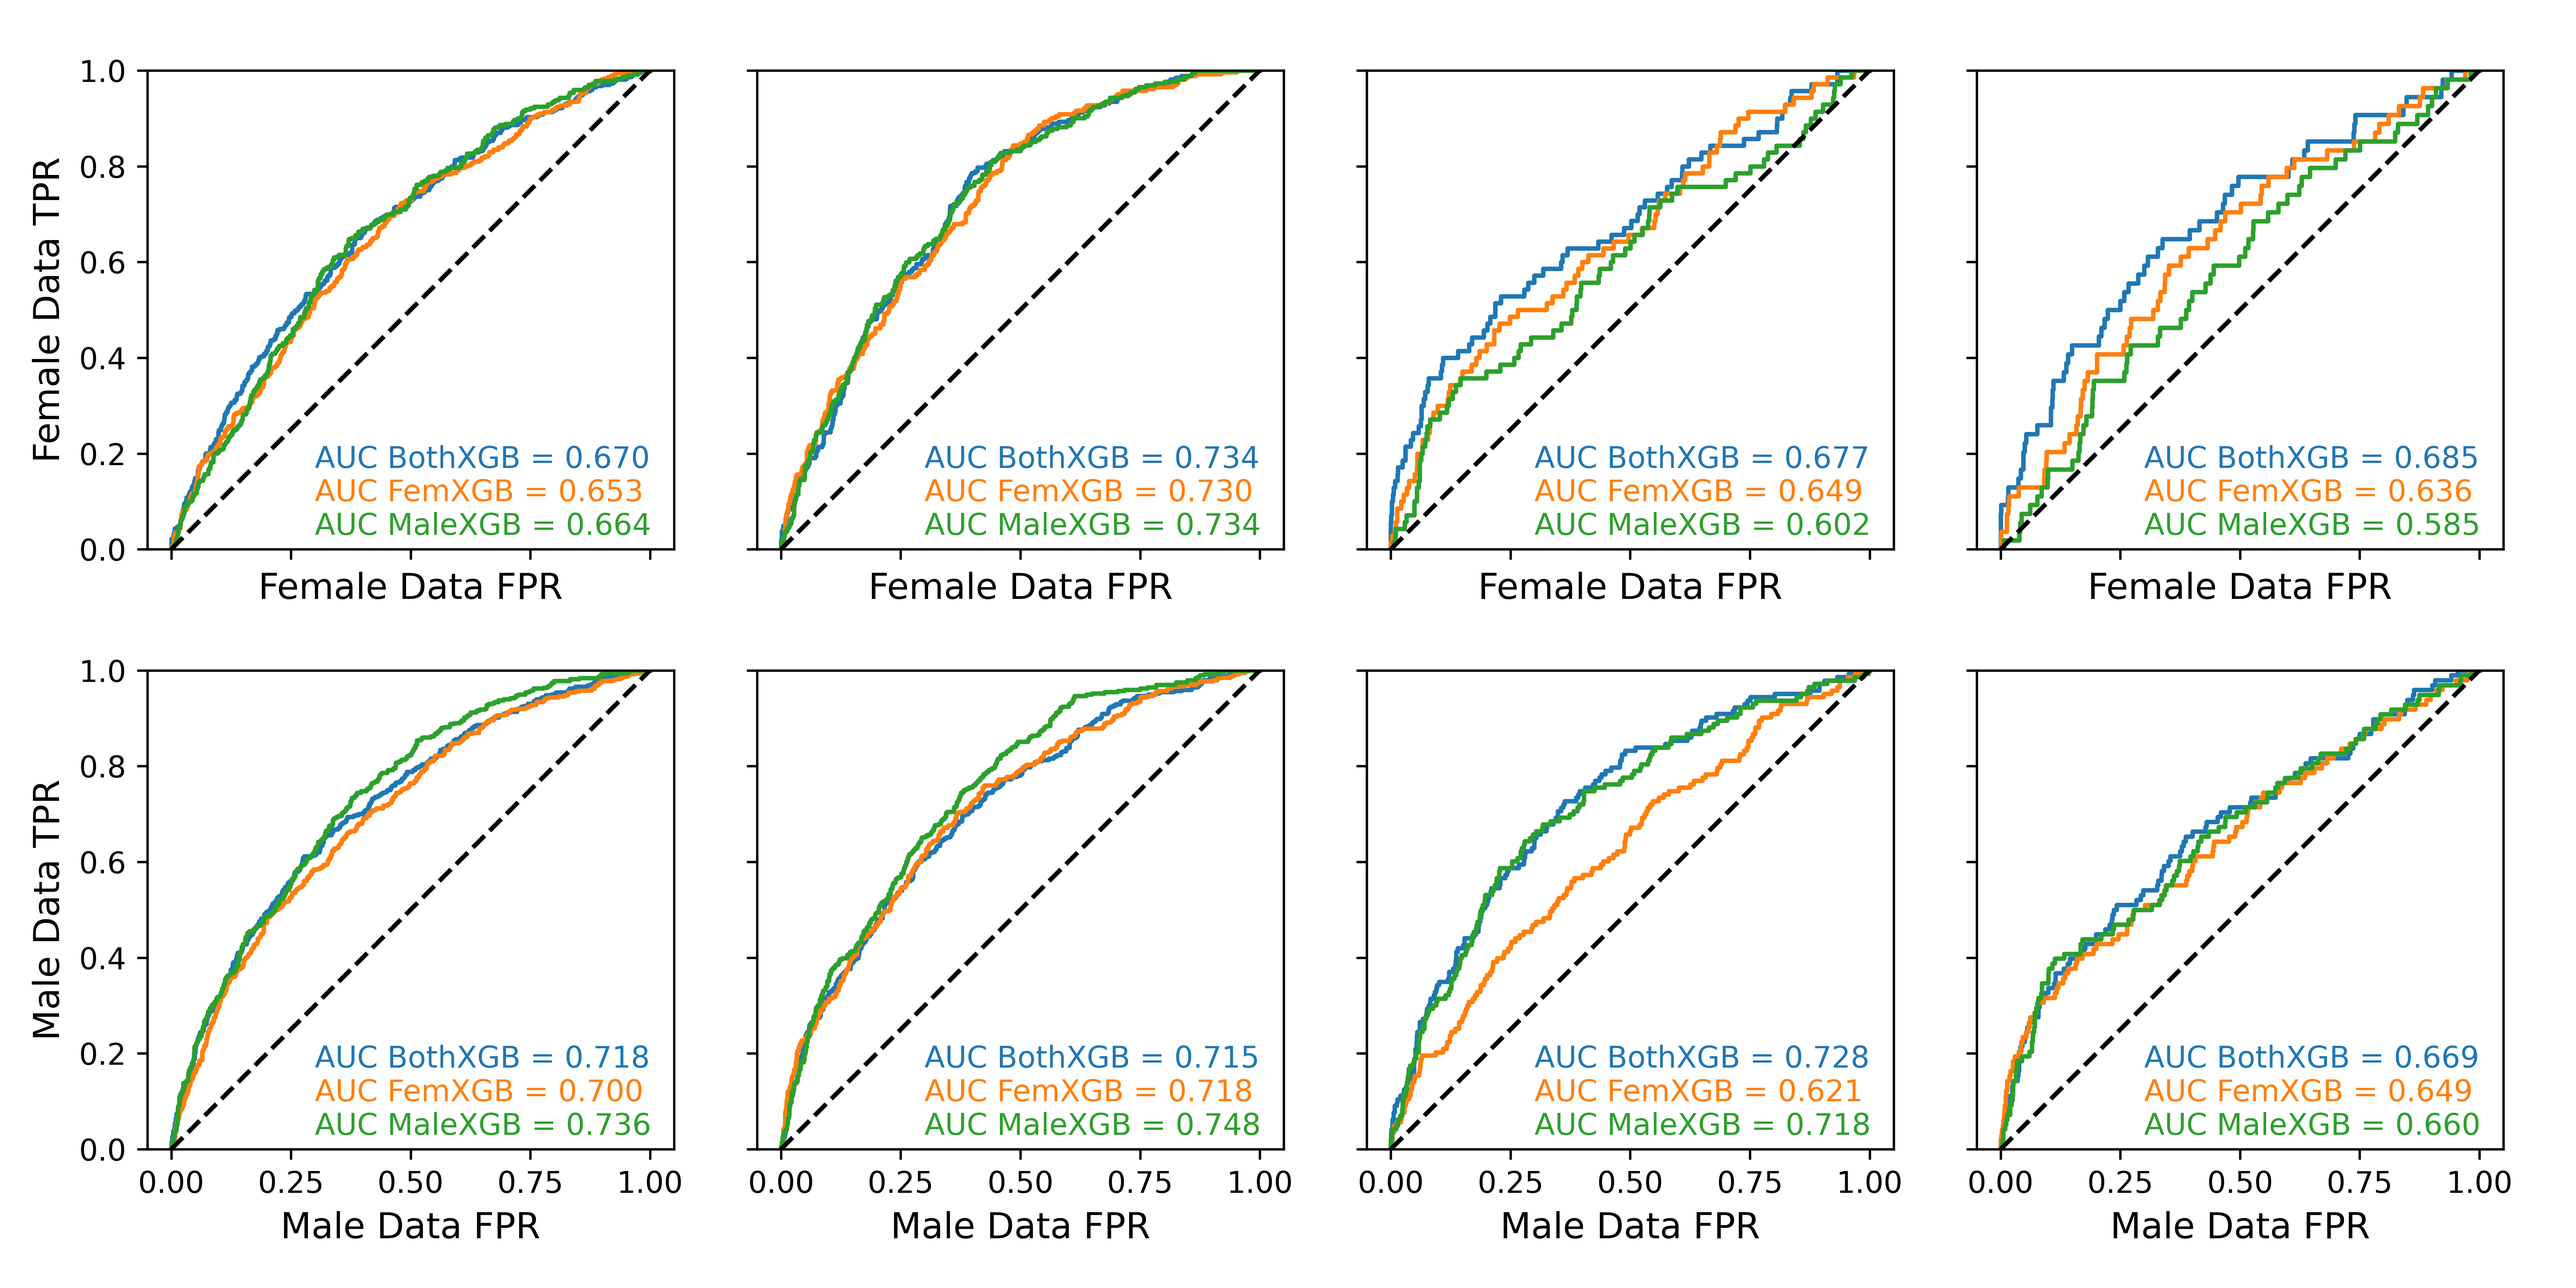
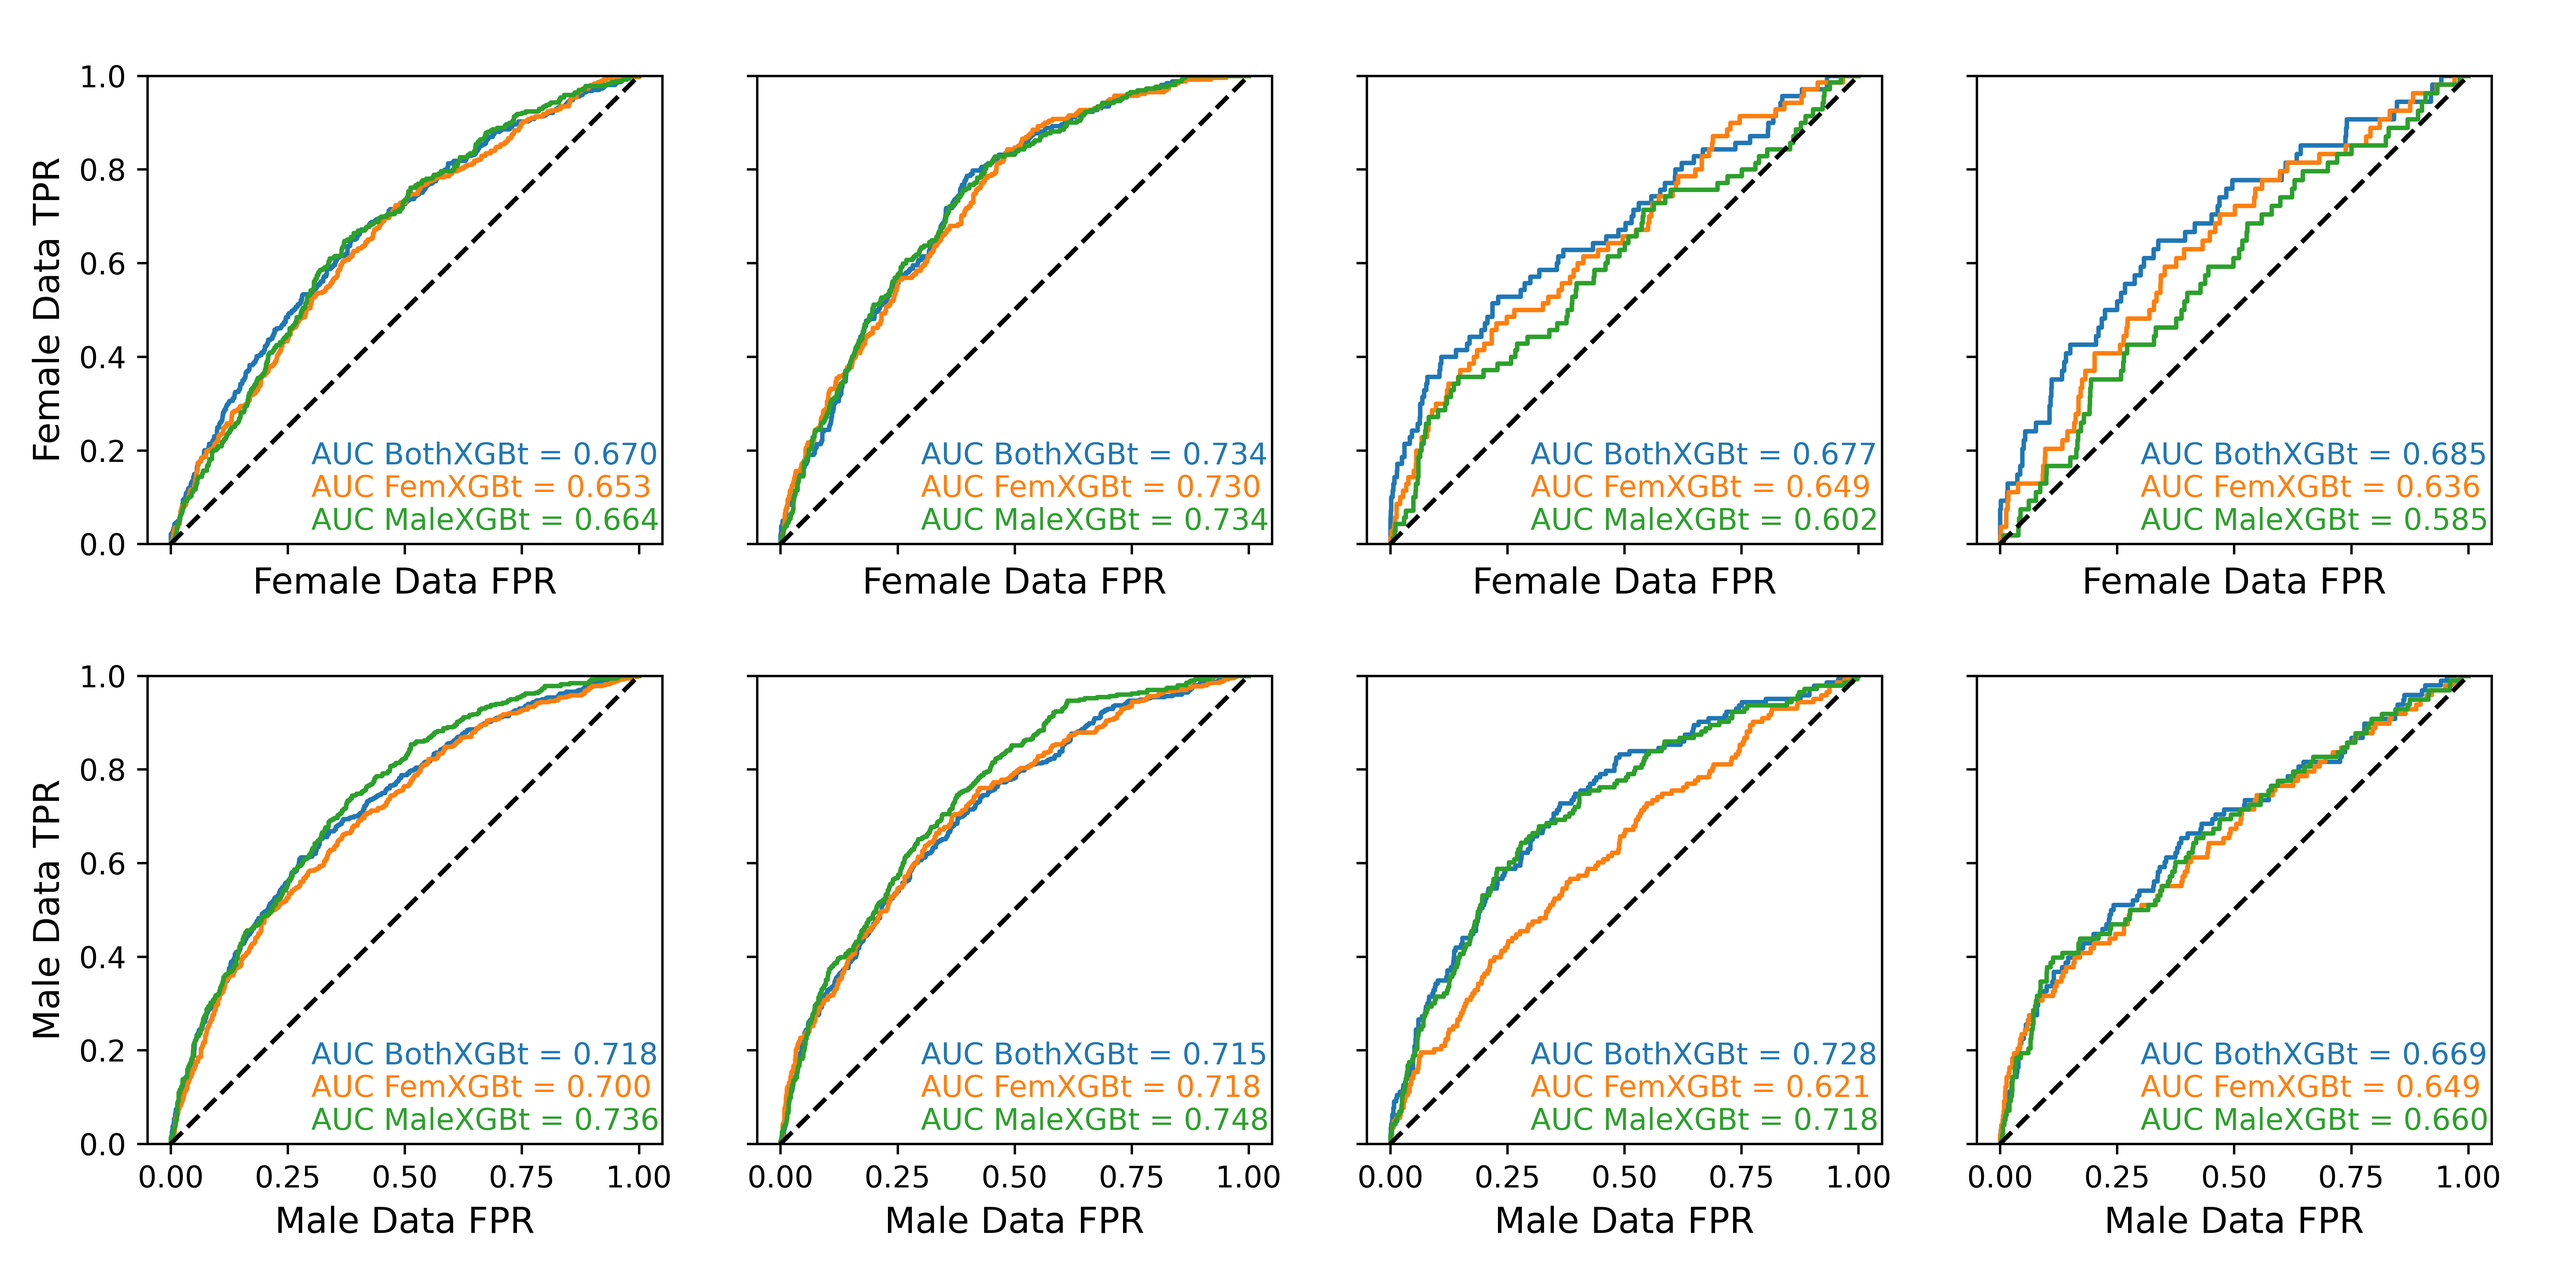
change XGB labels to XGBt

diff --git a/cross_evaluation.py b/cross_evaluation.py
@@ -77,7 +77,7 @@ for j in range(models_J) :
     y_pred_xgb_tuned = xgb_cl_tuned.predict_proba(x_test_xgb)  # XGB test set predictions
     fpr, tpr, thresholds = roc_curve(y_true_xgb, y_pred_xgb_tuned[:, 1])  # ROC curve
     ax[0, j].plot(fpr, tpr, color=c[0])
-    ax[0, j].text(0.3, 0.17, f'AUC BothXGB = {roc_auc_score(y_true_xgb, y_pred_xgb_tuned[:, 1]):.3f}', fontsize=10,
+    ax[0, j].text(0.3, 0.17, f'AUC BothXGBt = {roc_auc_score(y_true_xgb, y_pred_xgb_tuned[:, 1]):.3f}', fontsize=10,
                   color=c[0])  # AUC metric
 
     # Female data, female model
@@ -88,7 +88,7 @@ for j in range(models_J) :
     y_pred_xgb_tuned = xgb_cl_tuned.predict_proba(x_test_xgb)  # XGB test set predictions
     fpr, tpr, thresholds = roc_curve(y_true_xgb, y_pred_xgb_tuned[:, 1])  # ROC curve
     ax[0, j].plot(fpr, tpr, color=c[1])
-    ax[0, j].text(0.3, 0.1, f'AUC FemXGB = {roc_auc_score(y_true_xgb, y_pred_xgb_tuned[:, 1]):.3f}', fontsize=10,
+    ax[0, j].text(0.3, 0.1, f'AUC FemXGBt = {roc_auc_score(y_true_xgb, y_pred_xgb_tuned[:, 1]):.3f}', fontsize=10,
                   color=c[1])  # AUC metric
 
     # Female data, male model
@@ -98,7 +98,7 @@ for j in range(models_J) :
     y_pred_xgb_tuned = xgb_cl_tuned.predict_proba(x_test_xgb)  # XGB test set predictions
     fpr, tpr, thresholds = roc_curve(y_true_xgb, y_pred_xgb_tuned[:, 1])  # ROC curve
     ax[0, j].plot(fpr, tpr, color=c[2])
-    ax[0, j].text(0.3, 0.03, f'AUC MaleXGB = {roc_auc_score(y_true_xgb, y_pred_xgb_tuned[:, 1]):.3f}', fontsize=10,
+    ax[0, j].text(0.3, 0.03, f'AUC MaleXGBt = {roc_auc_score(y_true_xgb, y_pred_xgb_tuned[:, 1]):.3f}', fontsize=10,
                   color=c[2])  # AUC metric
 
     # Male data, both model
@@ -112,7 +112,7 @@ for j in range(models_J) :
     y_pred_xgb_tuned = xgb_cl_tuned.predict_proba(x_test_xgb)  # XGB test set predictions
     fpr, tpr, thresholds = roc_curve(y_true_xgb, y_pred_xgb_tuned[:, 1])  # ROC curve
     ax[1, j].plot(fpr, tpr, color=c[0])
-    ax[1, j].text(0.3, 0.17, f'AUC BothXGB = {roc_auc_score(y_true_xgb, y_pred_xgb_tuned[:, 1]):.3f}', fontsize=10,
+    ax[1, j].text(0.3, 0.17, f'AUC BothXGBt = {roc_auc_score(y_true_xgb, y_pred_xgb_tuned[:, 1]):.3f}', fontsize=10,
                   color=c[0])  # AUC metric
 
     # Male data, female model
@@ -123,7 +123,7 @@ for j in range(models_J) :
     y_pred_xgb_tuned = xgb_cl_tuned.predict_proba(x_test_xgb)  # XGB test set predictions
     fpr, tpr, thresholds = roc_curve(y_true_xgb, y_pred_xgb_tuned[:, 1])  # ROC curve
     ax[1, j].plot(fpr, tpr, color=c[1])
-    ax[1, j].text(0.3, 0.1, f'AUC FemXGB = {roc_auc_score(y_true_xgb, y_pred_xgb_tuned[:, 1]):.3f}', fontsize=10,
+    ax[1, j].text(0.3, 0.1, f'AUC FemXGBt = {roc_auc_score(y_true_xgb, y_pred_xgb_tuned[:, 1]):.3f}', fontsize=10,
                   color=c[1])  # AUC metric
 
     # Male data, male model
@@ -133,7 +133,7 @@ for j in range(models_J) :
     y_pred_xgb_tuned = xgb_cl_tuned.predict_proba(x_test_xgb)  # XGB test set predictions
     fpr, tpr, thresholds = roc_curve(y_true_xgb, y_pred_xgb_tuned[:, 1])  # ROC curve
     ax[1, j].plot(fpr, tpr, color=c[2])
-    ax[1, j].text(0.3, 0.03, f'AUC MaleXGB = {roc_auc_score(y_true_xgb, y_pred_xgb_tuned[:, 1]):.3f}', fontsize=10,
+    ax[1, j].text(0.3, 0.03, f'AUC MaleXGBt = {roc_auc_score(y_true_xgb, y_pred_xgb_tuned[:, 1]):.3f}', fontsize=10,
                   color=c[2])  # AUC metric
 
     # Formatting
